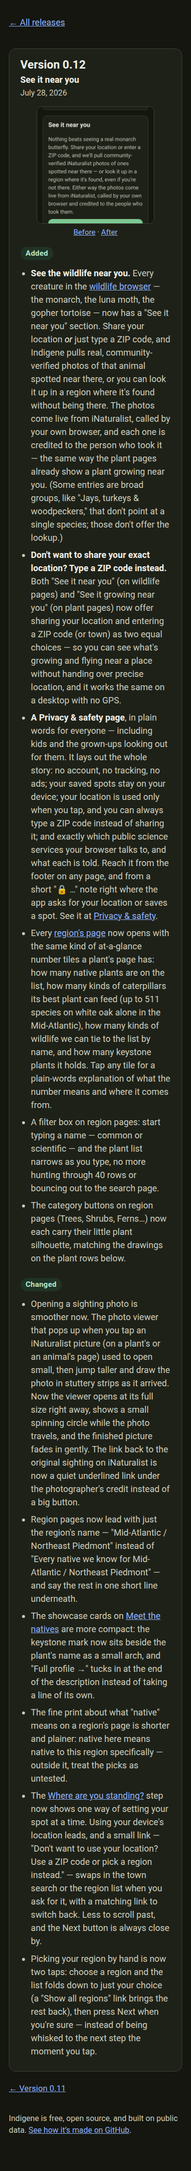
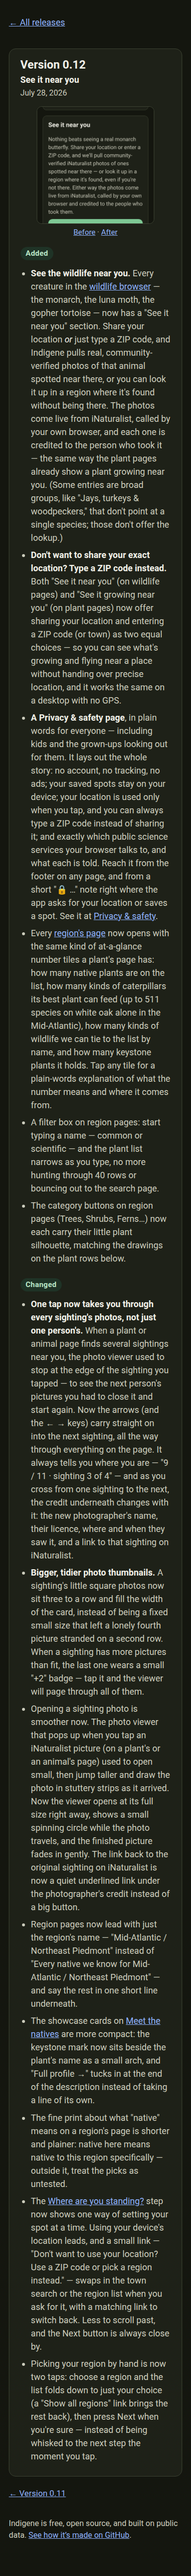
Fold #52 into 0.12 and extend its range
The rebase onto main brought PR #52 (lightbox paging across every
sighting, three-per-row thumbnails), whose bullets landed in 0.12's
Changed section beside #50's lightbox work — the same "See it near you"
arc, merged the same day, and 0.12 has not been published yet.

Left in Unreleased those bullets would have shipped invisible, which is
the exact problem this branch fixes: main's own compiled page still
shows only 10 versions.

So 0.12 now ends at fa0dd4c rather than 9240f9c, and Unreleased starts
there. 0.12's screenshots refreshed for the two new bullets.

Bundle re-measured after #52's source changes: 111.70 KB gzipped, up
0.2 KB — the docs' "~111 KB" still holds, so no doc updates.

Claude-Session: https://claude.ai/code/session_01APeUMPg3g12VaF2c8yqViD

Changed region(s): [[0.0308, 0.0, 0.8923, 0.9964], [0.8615, 0.9653, 0.9231, 0.9964]]

diff --git a/CHANGELOG.md b/CHANGELOG.md
@@ -521,8 +521,8 @@ subtitle on the What's new page.
   dependencies — bundled by Vite. A thin, optional Hanami 2 API (`server/`)
   proxies site data; the PWA works without it.
 
-[Unreleased]: https://github.com/olivierlacan/indigene/compare/9240f9c...HEAD
-[0.12]: https://github.com/olivierlacan/indigene/compare/2aec57f...9240f9c
+[Unreleased]: https://github.com/olivierlacan/indigene/compare/fa0dd4c...HEAD
+[0.12]: https://github.com/olivierlacan/indigene/compare/2aec57f...fa0dd4c
 [0.11]: https://github.com/olivierlacan/indigene/compare/f84450c...2aec57f
 [0.10]: https://github.com/olivierlacan/indigene/compare/9453251...f84450c
 [0.9]: https://github.com/olivierlacan/indigene/compare/6e72889...9453251
